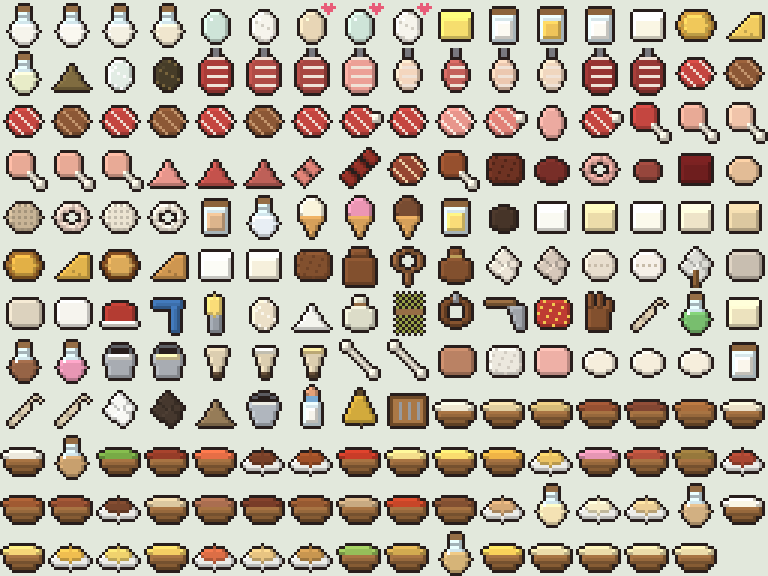
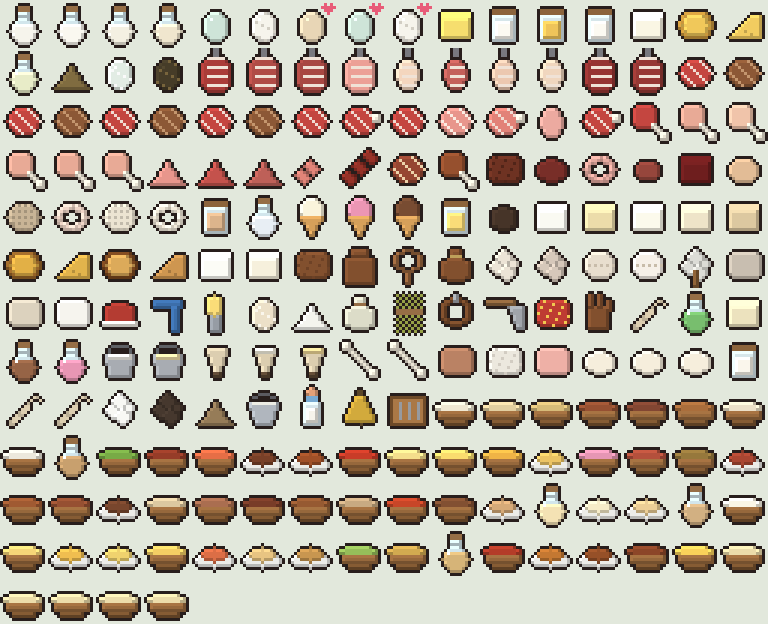
Dishes for the spare cuts: ribs, wings, lamb leg and rabbit leg
Sweet and sour spare ribs and honey-glazed chicken wings in the wok,
a spiced roast lamb leg from the furnace (seasoned on the crafting table
first) and braised rabbit legs in the stockpot. RetroDiffusion icons
picked; a test checks each cut reaches its dish with valid ingredients.

diff --git a/packs/BP/scripts/data/dishes.js b/packs/BP/scripts/data/dishes.js
@@ -286,6 +286,28 @@ export const DISHES = [
     slots: [[r("chhurpi_block")], [r("ghee")], [KC("dried_tea_leaves")]],
     look: ["bottle", [214, 180, 120]],
   },
+
+  // --- Spare cuts: ribs, wings, lamb leg and rabbit leg -------------------------------
+  {
+    id: "sweet_sour_ribs", zh: "糖醋排骨", en: "Sweet and Sour Spare Ribs", food: [10, 0.8], station: "wok", carrier: BOWL, time: 200,
+    slots: [[r("pork_ribs")], [r("pork_ribs")], ["minecraft:sugar"], [KC("tomato")]],
+    look: ["bowl", [180, 60, 40]],
+  },
+  {
+    id: "honey_chicken_wings", zh: "蜜汁雞翅", en: "Honey-glazed Chicken Wings", food: [8, 0.75], station: "wok", carrier: "", time: 200,
+    slots: [[r("chicken_wing")], [r("chicken_wing")], ["minecraft:honey_bottle", "minecraft:sugar"]],
+    look: ["plate", [196, 120, 50]],
+  },
+  {
+    id: "roast_lamb_leg", zh: "孜然烤羊腿", en: "Spiced Roast Lamb Leg", food: [12, 0.85], station: "furnace", carrier: "",
+    input: r("seasoned_lamb_leg"),
+    look: ["plate", [150, 80, 40]],
+  },
+  {
+    id: "braised_rabbit_legs", zh: "紅燒兔腿", en: "Braised Rabbit Legs", food: [10, 0.8], station: "stockpot", carrier: BOWL, time: 400,
+    slots: [[r("rabbit_leg")], [r("rabbit_leg")], ["minecraft:carrot"], ["minecraft:sugar"]],
+    look: ["bowl", [140, 70, 40]],
+  },
 ];
 
 /**
@@ -317,6 +339,11 @@ export const DISH_PREPS = [
   {
     id: "raw_truffle_gratin", zh: "松露焗烤生料", en: "Unbaked Truffle Gratin",
     makes: [[r("truffle"), r("cheese_slice"), "minecraft:potato", BOWL]],
+  },
+  // Spare cuts
+  {
+    id: "seasoned_lamb_leg", zh: "醃羊腿", en: "Seasoned Lamb Leg",
+    makes: [[r("lamb_leg"), KC("red_chili")]],
   },
 ];
 
